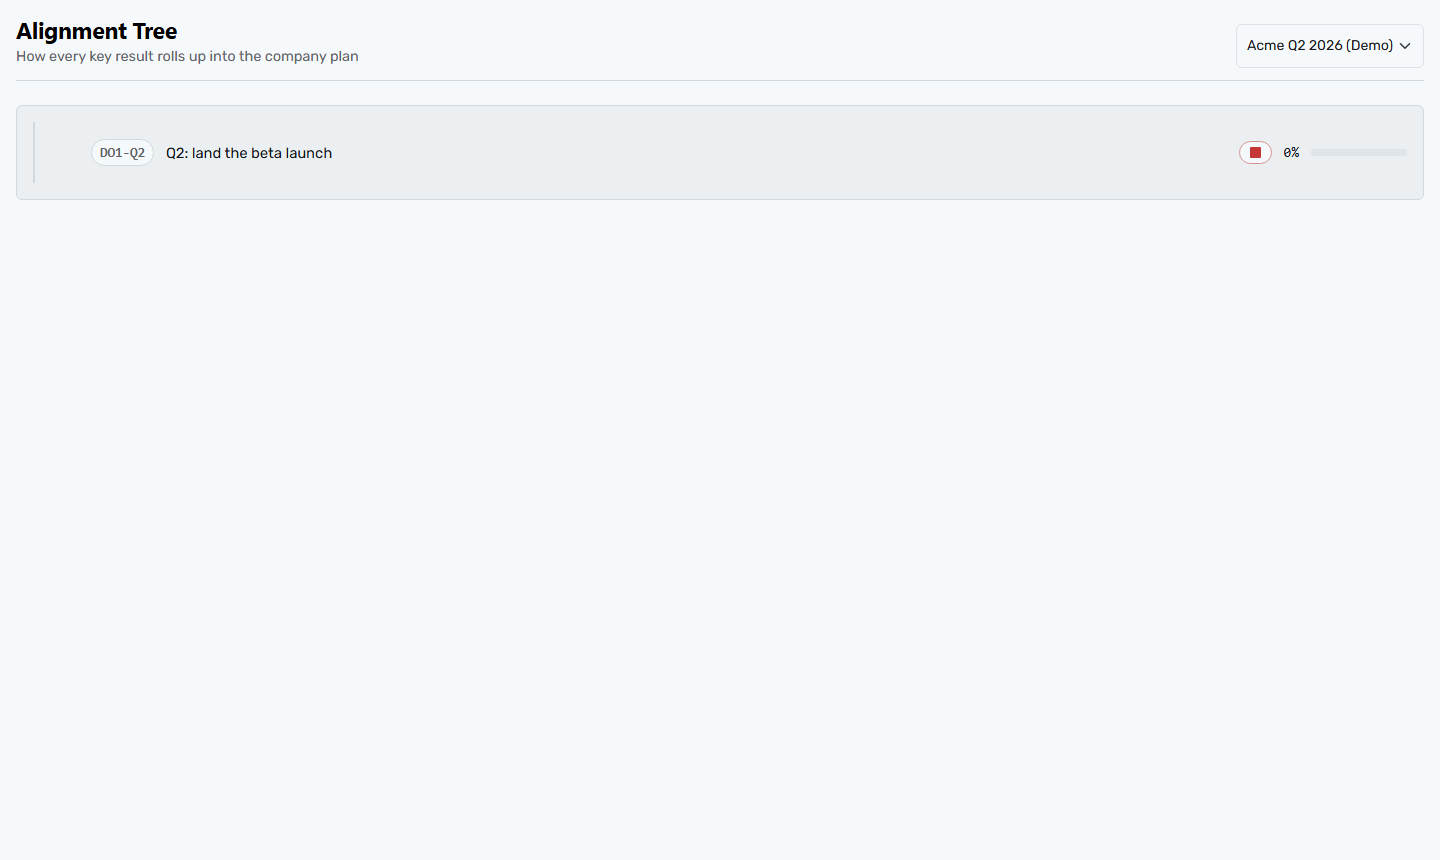
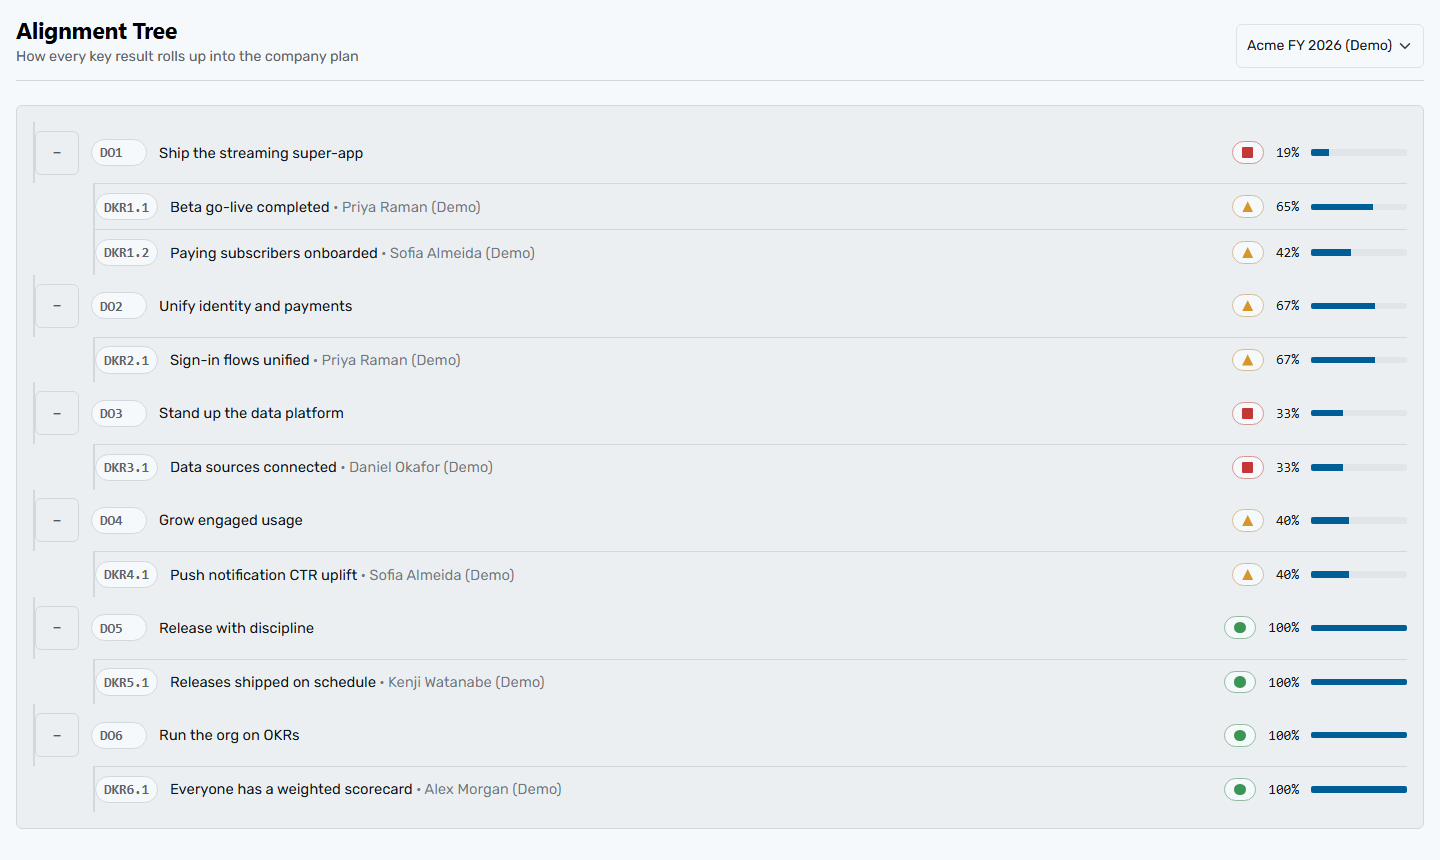
sync: alignment-tree cycle filter and composited cover from 19.0 (b8dbef5)

diff --git a/addons_hrm/aic_okr_kpi/static/src/alignment_tree/alignment_tree.js b/addons_hrm/aic_okr_kpi/static/src/alignment_tree/alignment_tree.js
@@ -24,8 +24,14 @@ export class AicHrmAlignmentTree extends Component {
             loading: true,
         });
         onWillStart(async () => {
+            // Same filter as the cockpit. This read every cycle including
+            // drafts, so the tree opened on a cycle that had not started -
+            // typically empty - while the cockpit next to it showed the
+            // live one. Two dashboards disagreeing about which cycles
+            // count is worse than either being wrong.
             this.state.cycles = await this.orm.searchRead(
-                "aic.hrm.cycle", [],
+                "aic.hrm.cycle",
+                [["state", "in", ["open", "review", "closed"]]],
                 ["id", "name", "code", "state"],
                 { order: "date_start desc" },
             );

diff --git a/addons_hrm/aic_okr_kpi/__manifest__.py b/addons_hrm/aic_okr_kpi/__manifest__.py
@@ -2,7 +2,7 @@
 # Part of AIC HRM Pro. See LICENSE file for full copyright and licensing details.
 {
     'name': 'AIC OKR & KPI',
-    'version': '19.0.1.0.0',
+    'version': '18.0.1.0.0',
     'category': 'Human Resources/Performance',
     'summary': 'OKR and KPI management: objectives, key results, KPI engine, check-ins, assignments, dashboards',
     'description': """
